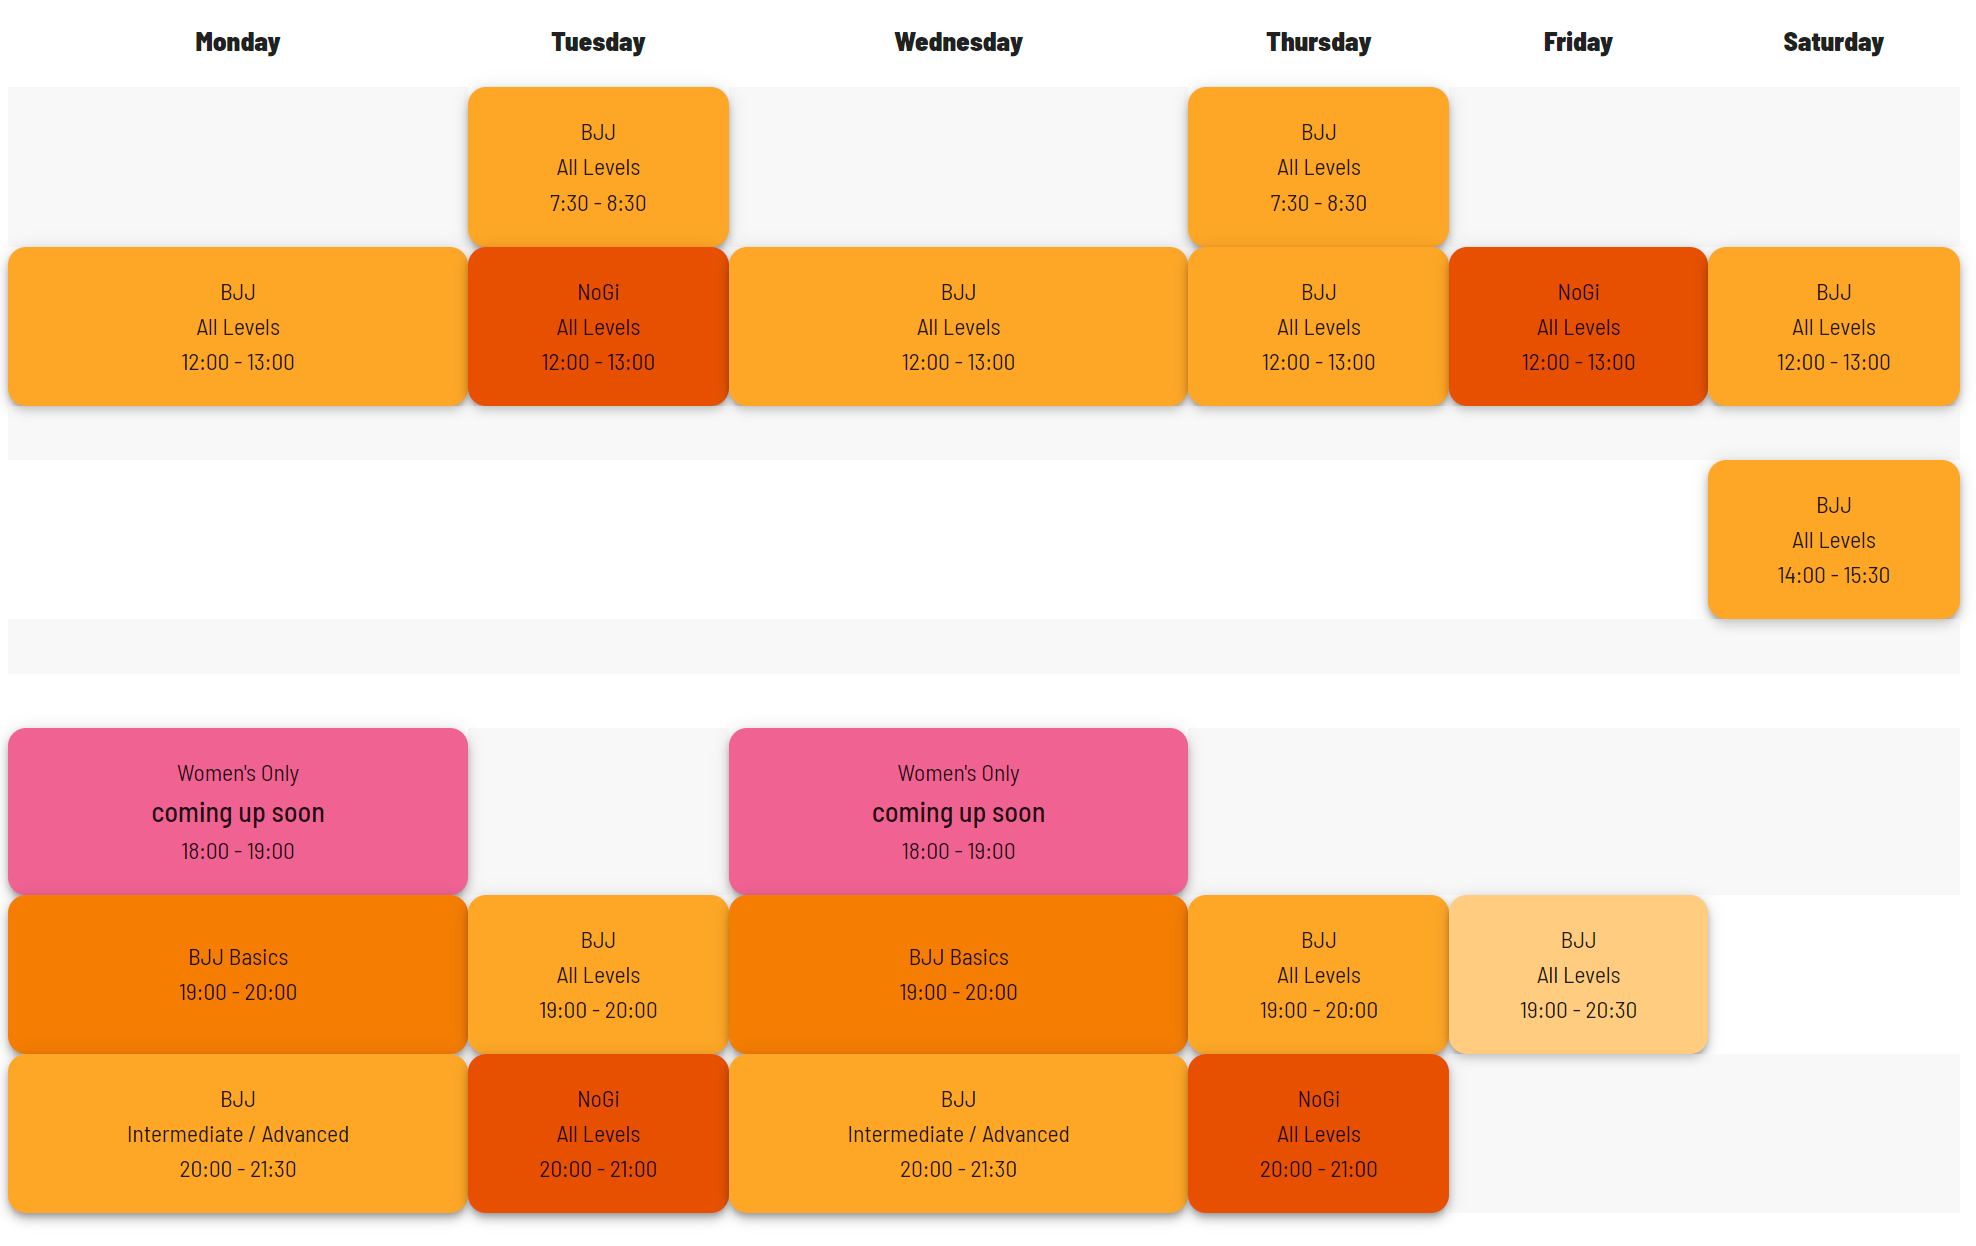
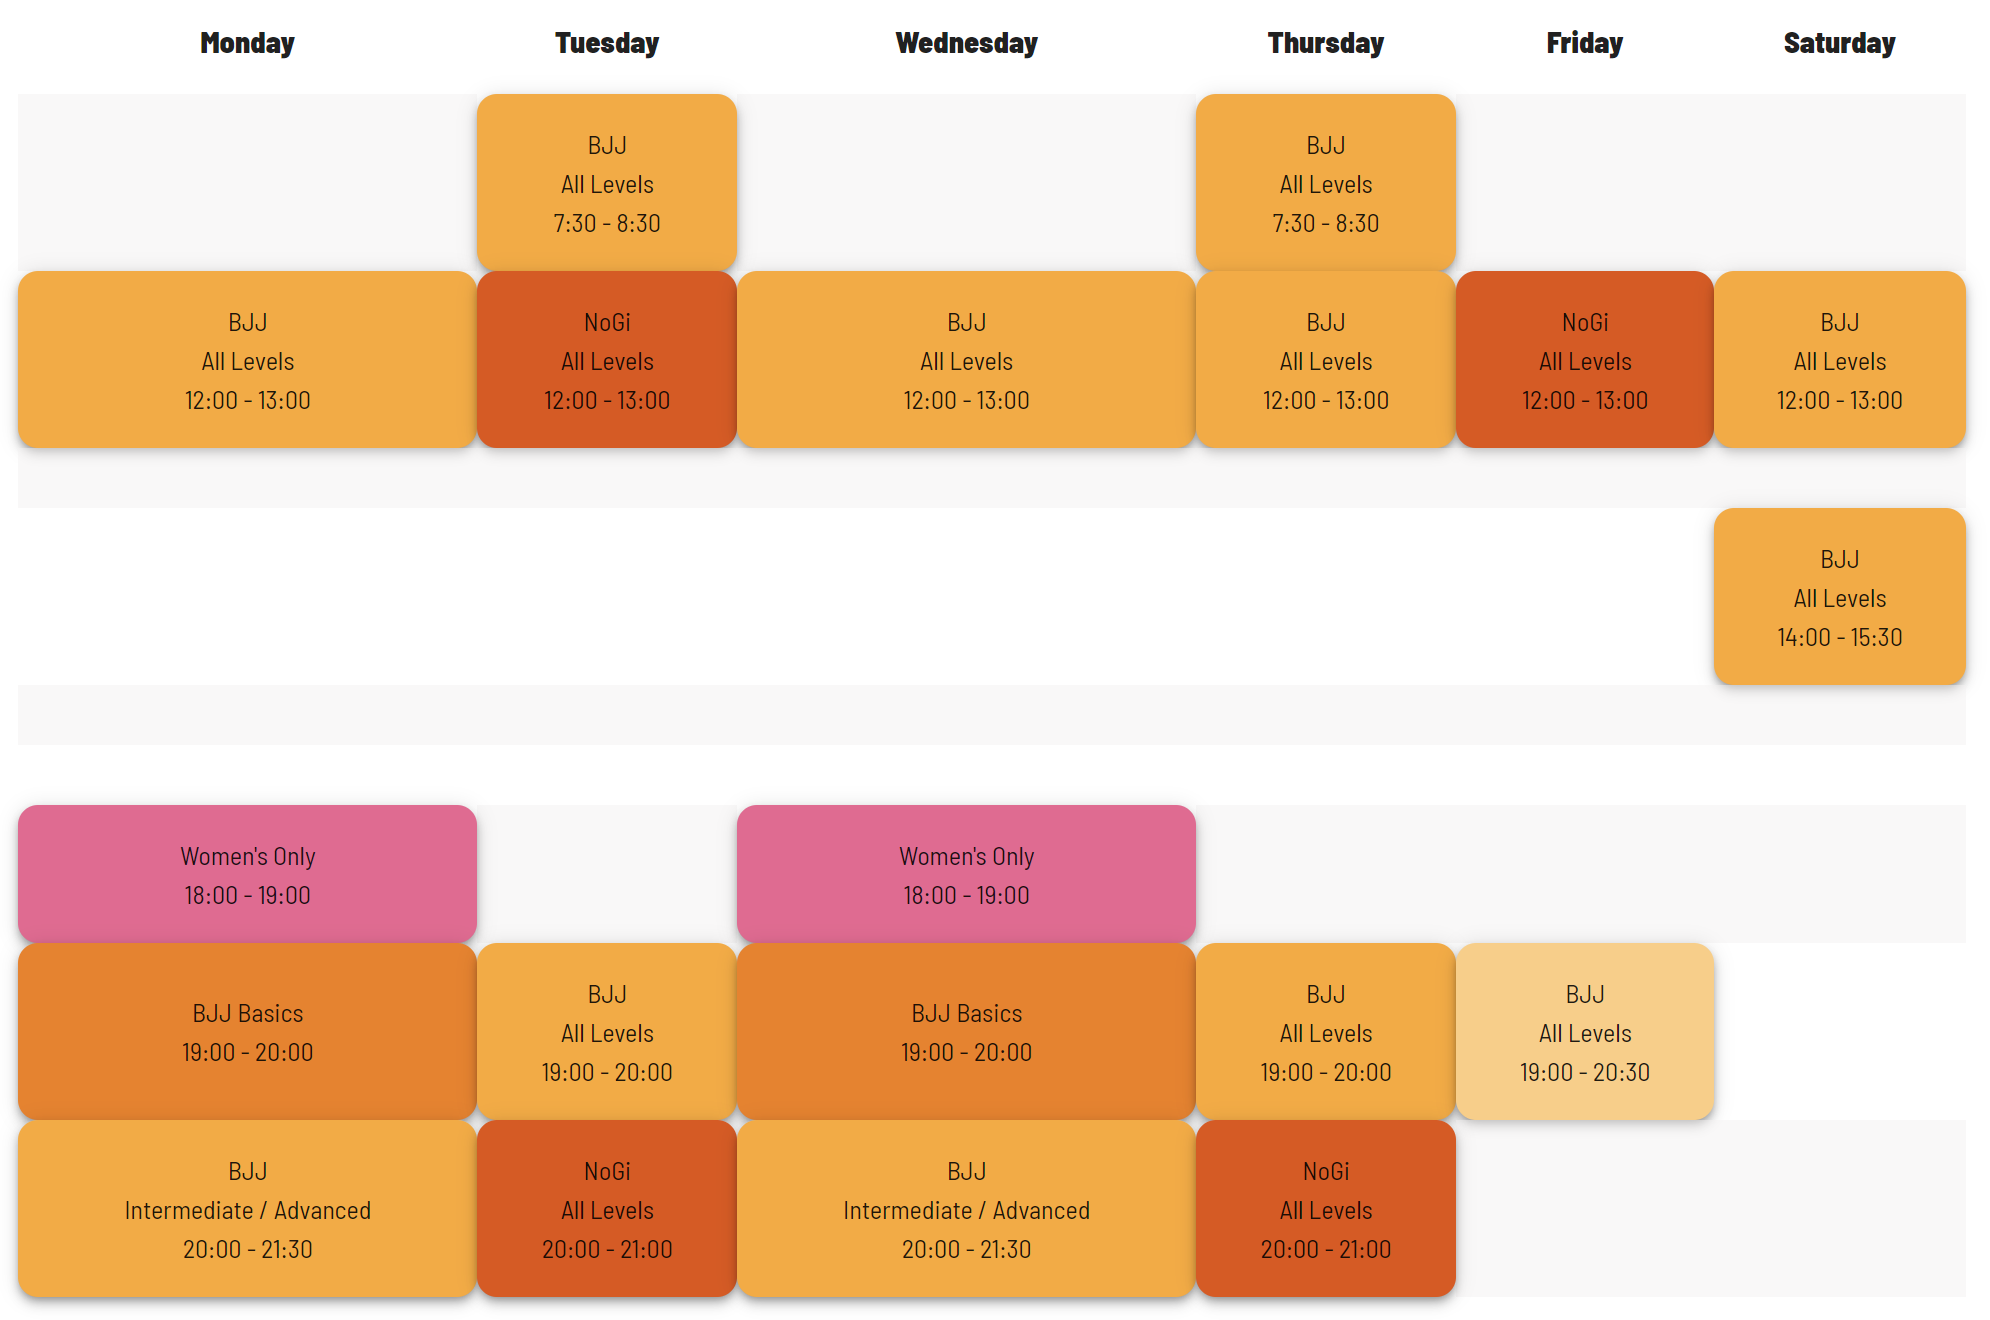
womens only class published, added links to checkout page

diff --git a/src/components/sections/FeeSection.vue b/src/components/sections/FeeSection.vue
@@ -178,25 +178,25 @@ export default {
 					title: "Month",
 					price: 120,
 					style: "women",
-					url: "",
+					url: "https://checkout.joinmaat.com/?gymId=pablo_cerino_jiu_jitsu_school&priceId=price_1PvKozP20CPU4ademxtFwcTO",
 				},
 				{
 					title: "Trimester",
 					price: 300,
 					style: "women",
-					url: "",
+					url: "https://checkout.joinmaat.com/?gymId=pablo_cerino_jiu_jitsu_school&priceId=price_1PvKrWP20CPU4ade1ylOgbUu",
 				},
 				{
 					title: "Semester",
 					price: 500,
 					style: "women",
-					url: "",
+					url: "https://checkout.joinmaat.com/?gymId=pablo_cerino_jiu_jitsu_school&priceId=price_1PvKqVP20CPU4ade8DO7GBjK",
 				},
 				{
 					title: "Year",
 					price: 900,
 					style: "women",
-					url: "",
+					url: "https://checkout.joinmaat.com/?gymId=pablo_cerino_jiu_jitsu_school&priceId=price_1PvKruP20CPU4ademcwiFoR7",
 				},
 			],
 			kidsPricing: [

diff --git a/src/components/layout/AdultsTable.vue b/src/components/layout/AdultsTable.vue
@@ -82,7 +82,6 @@
 			<tr>
 				<td class="center-align pink lighten-2 z-depth-2">
 					<p>Women's Only</p>
-					<strong>coming up soon</strong>
 					<p>18:00 - 19:00</p>
 				</td>
 				<!-- tuesday -->
@@ -90,7 +89,6 @@
 				<!-- WED -->
 				<td class="center-align pink lighten-2 z-depth-2">
 					<p>Women's Only</p>
-					<strong>coming up soon</strong>
 					<p>18:00 - 19:00</p>
 				</td>
 				<!-- Thur -->
